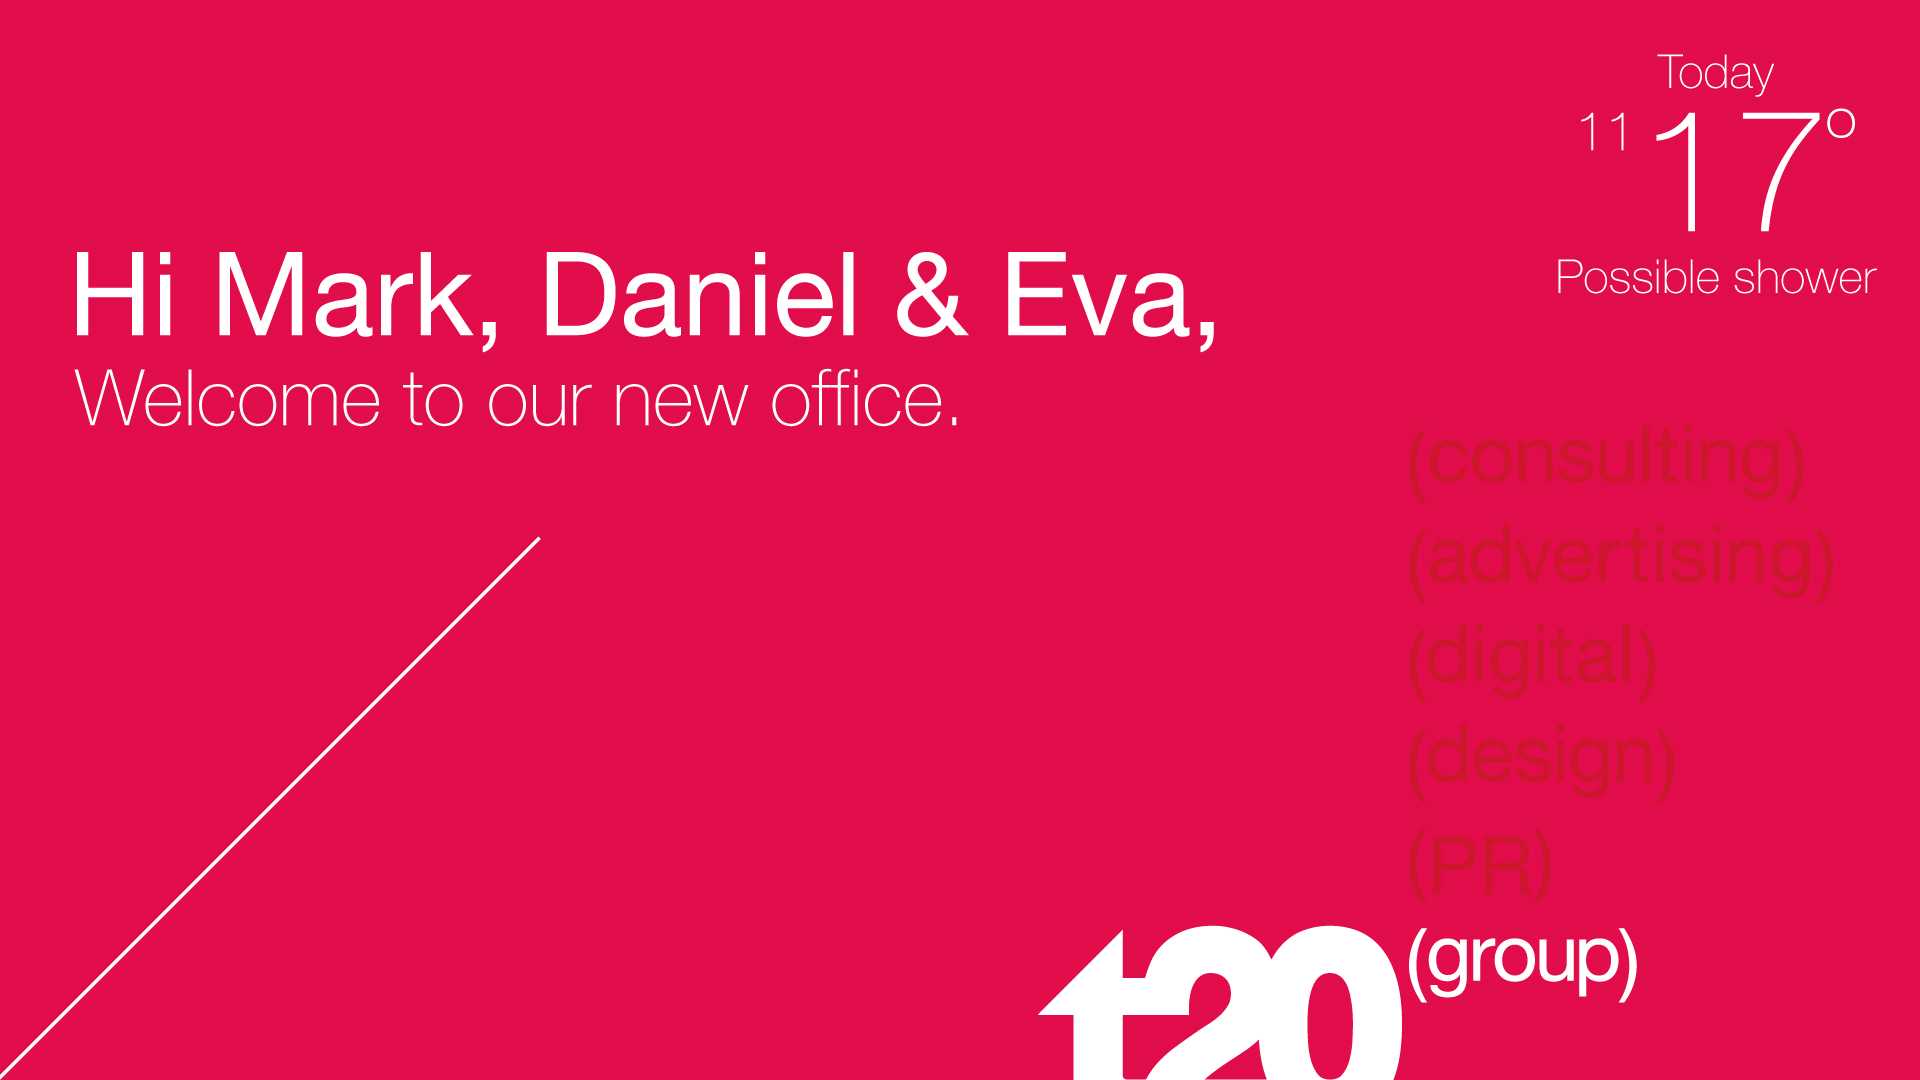
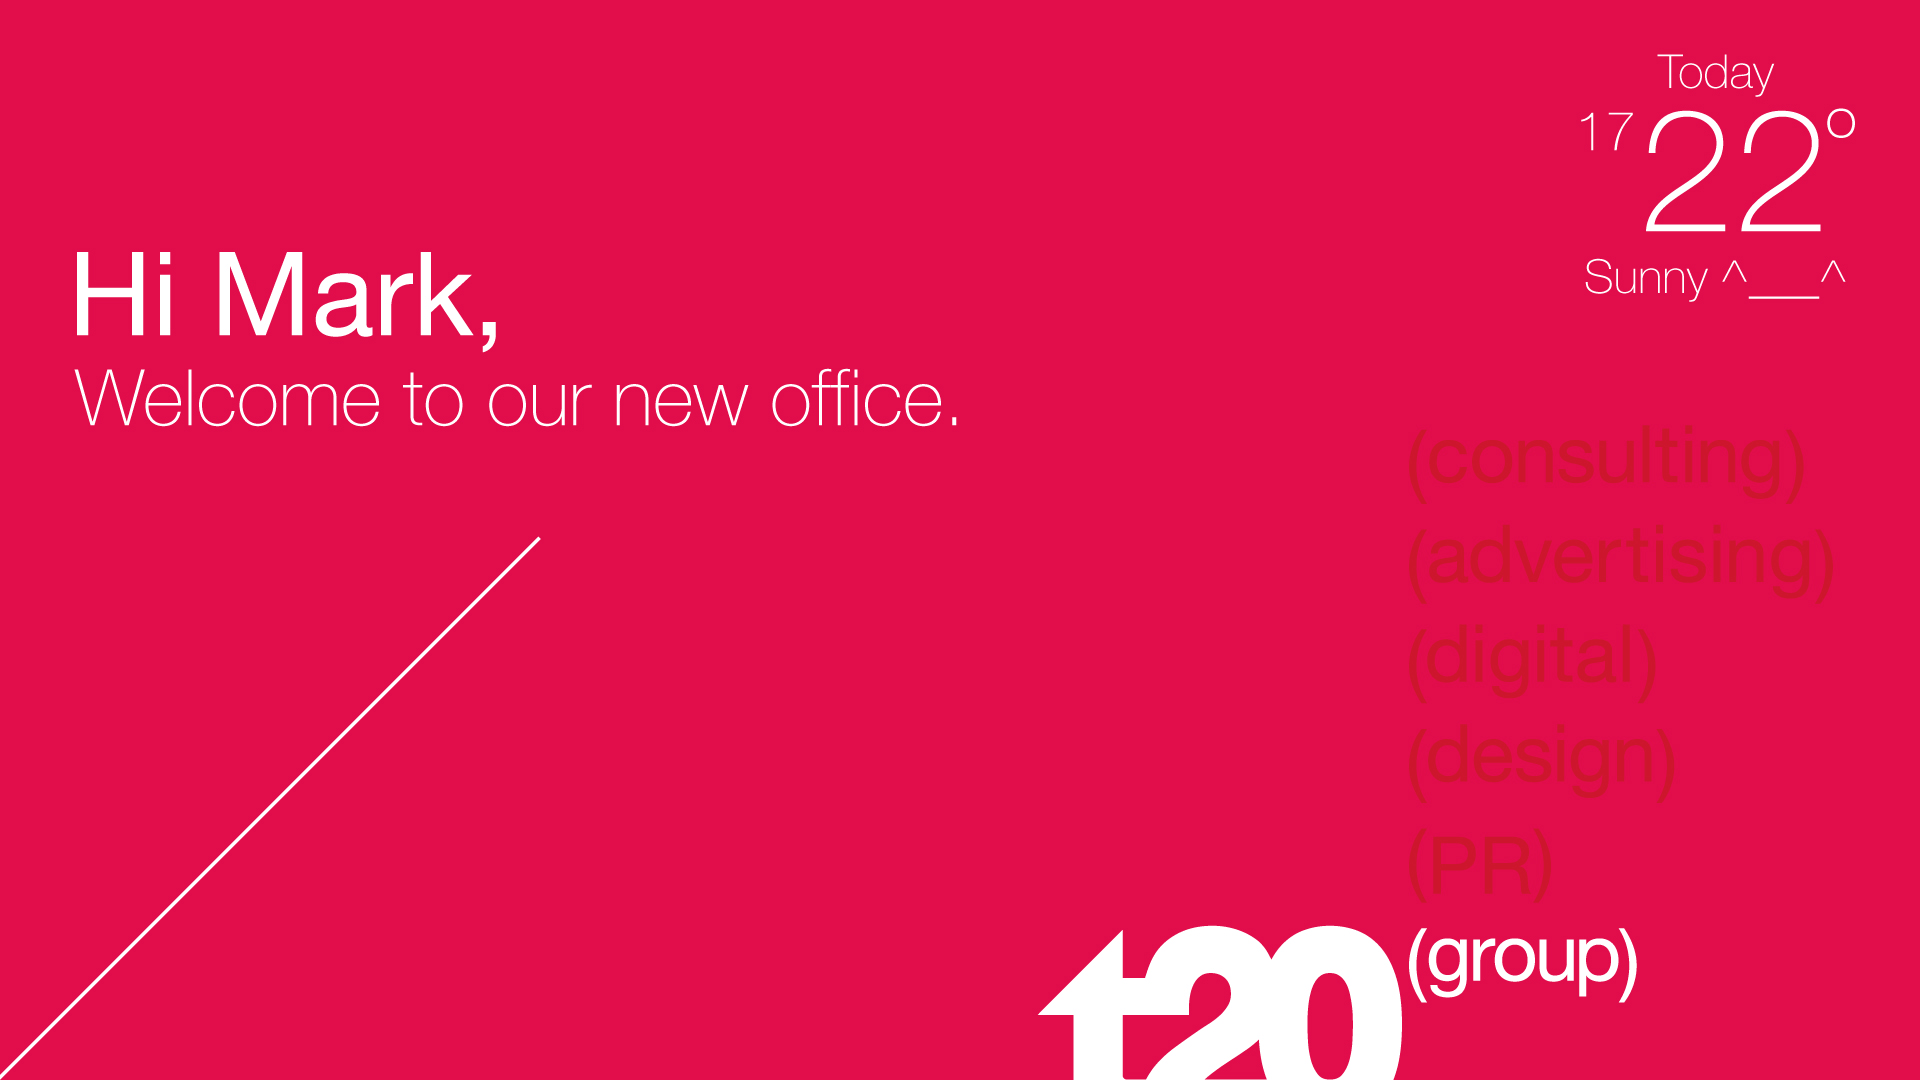
hi Mark

Changed region(s): [[0.2812, 0.2139, 0.6562, 0.3361], [0.8438, 0.0917, 0.9688, 0.2139], [0.8125, 0.2444, 0.9688, 0.275]]

diff --git a/index.html b/index.html
@@ -11,7 +11,7 @@
 <body style="background: #d7003a;">
 
 <!-- <a href="simTV-presso-only.html"><img src="images/hi-daniel2.jpg" width="1920" height="1080"></a> -->
-<img src="images/hi-nigel.jpg" width="1920" height="1080">
+<img src="images/hi-mark.jpg" width="1920" height="1080">
 
 <!-- <img style="position: absolute; top: 5%; right: 5%;" src="images/weather.png"/> -->
 
